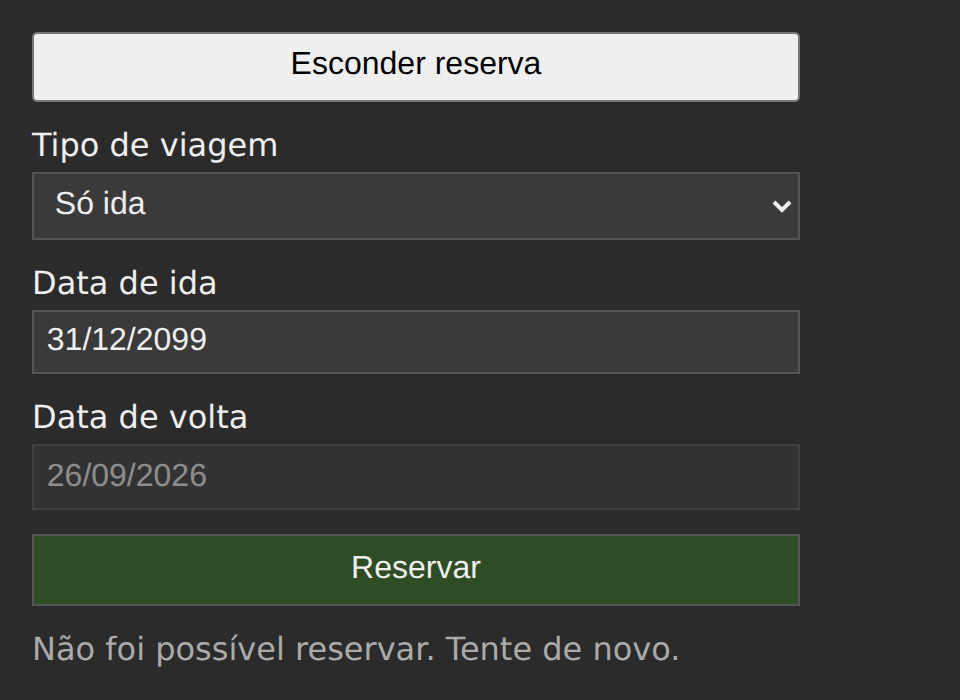
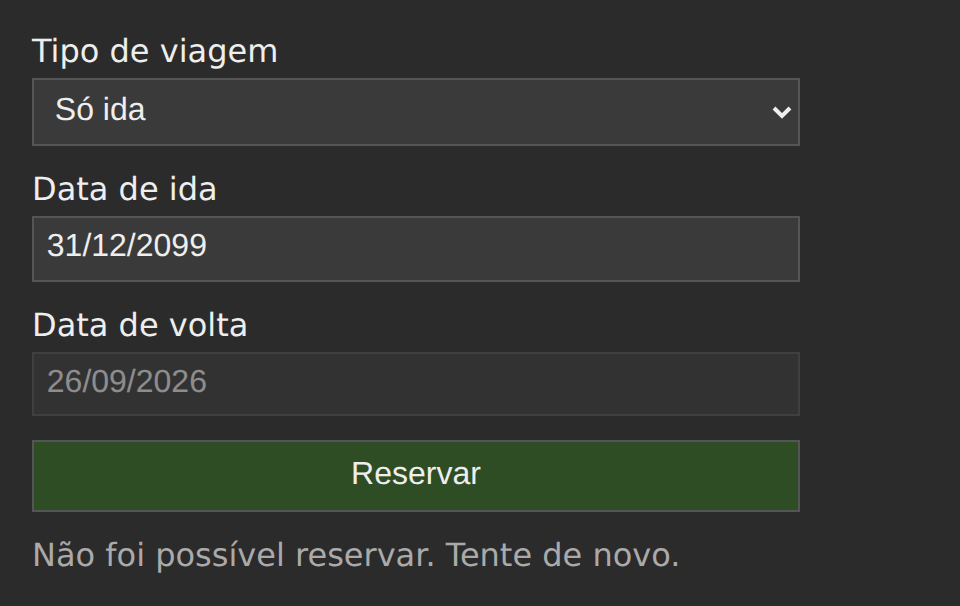
Hospeda a Reserva no Web Component com signals pela página comum
A Reserva de passagem no Web Component com signals ainda traz a página
com o botão "Esconder reserva"/"Mostrar reserva", um segundo elemento
que só existe para o teste de conformidade tirar o formulário da página,
e por isso falha nas verificações de "Limpeza ao sair da tela", que
desde "Confere a limpeza ao sair da tela pela rota da página, sem botão"
saem e voltam pela rota do hash de implementacoes/pagina.ts (ADR 0043).

A página sai, com o efeito que criava o formulário e a limpeza que o
tirava, e fica o par montar e desmontar no idioma da tecnologia, o mesmo
do Web Component: o createElement e o append do formulário no contêiner,
e o remove(), que dispara o disconnectedCallback. O index.html passa a
trazer o contêiner #raiz com a classe do layout, que a página montava. A
limpeza ao sair da tela, o dispose do createRoot no
disconnectedCallback, não muda: é o que se compara.

Conferido com npm run conformidade -- formulario/web-component-signals
(22 verificações ok) e com as capturas regeradas: as 6 cenas saem sem o
botão, iguais às do Web Component, e diferentes das outras até o commit
de cada uma.

Changed region(s): [[0.0312, 0.0297, 0.8438, 0.9505], [0.8125, 0.1782, 0.8438, 0.2079]]

diff --git a/implementacoes/formulario/web-component-signals/src/main.ts b/implementacoes/formulario/web-component-signals/src/main.ts
@@ -15,6 +15,7 @@ import {
   hoje,
   type TipoDeViagem,
 } from "../../dominio";
+import { hospedar } from "../../../pagina";
 import "../../estilo.css";
 
 const modelo = /* HTML */ `
@@ -163,44 +164,10 @@ class FormularioDeCompra extends HTMLElement {
   }
 }
 
-// A página: o botão que tira o formulário da página e o põe de volta.
-class ReservaDePassagem extends HTMLElement {
-  private descartar?: () => void;
-
-  connectedCallback() {
-    this.innerHTML = /* HTML */ `
-      <main class="reserva">
-        <button type="button" class="alternar">Esconder reserva</button>
-      </main>
-    `;
-    const principal = this.querySelector("main")!;
-    const alternar = this.querySelector<HTMLButtonElement>(".alternar")!;
-
-    const [visivel, setVisivel] = createSignal(true);
-    alternar.addEventListener("click", () => setVisivel(!visivel()));
-
-    this.descartar = createRoot((descartar) => {
-      createEffect(() => {
-        alternar.textContent = visivel()
-          ? "Esconder reserva"
-          : "Mostrar reserva";
-      });
-      // O formulário entra quando o sinal fica verdadeiro, e a limpeza o
-      // tira quando ele fica falso.
-      createEffect(() => {
-        if (!visivel()) return;
-        const formulario = document.createElement("formulario-de-compra");
-        principal.append(formulario);
-        onCleanup(() => formulario.remove());
-      });
-      return descartar;
-    });
-  }
-
-  disconnectedCallback() {
-    this.descartar?.();
-  }
-}
-
 customElements.define("formulario-de-compra", FormularioDeCompra);
-customElements.define("reserva-de-passagem", ReservaDePassagem);
+
+hospedar((conteiner) => {
+  const formulario = document.createElement("formulario-de-compra");
+  conteiner.append(formulario);
+  return () => formulario.remove();
+});

diff --git a/implementacoes/formulario/web-component-signals/index.html b/implementacoes/formulario/web-component-signals/index.html
@@ -6,7 +6,7 @@
     <title>Formulário com Web Component e signals</title>
   </head>
   <body>
-    <reserva-de-passagem></reserva-de-passagem>
+    <main id="raiz" class="reserva"></main>
     <script type="module" src="/src/main.ts"></script>
   </body>
 </html>
